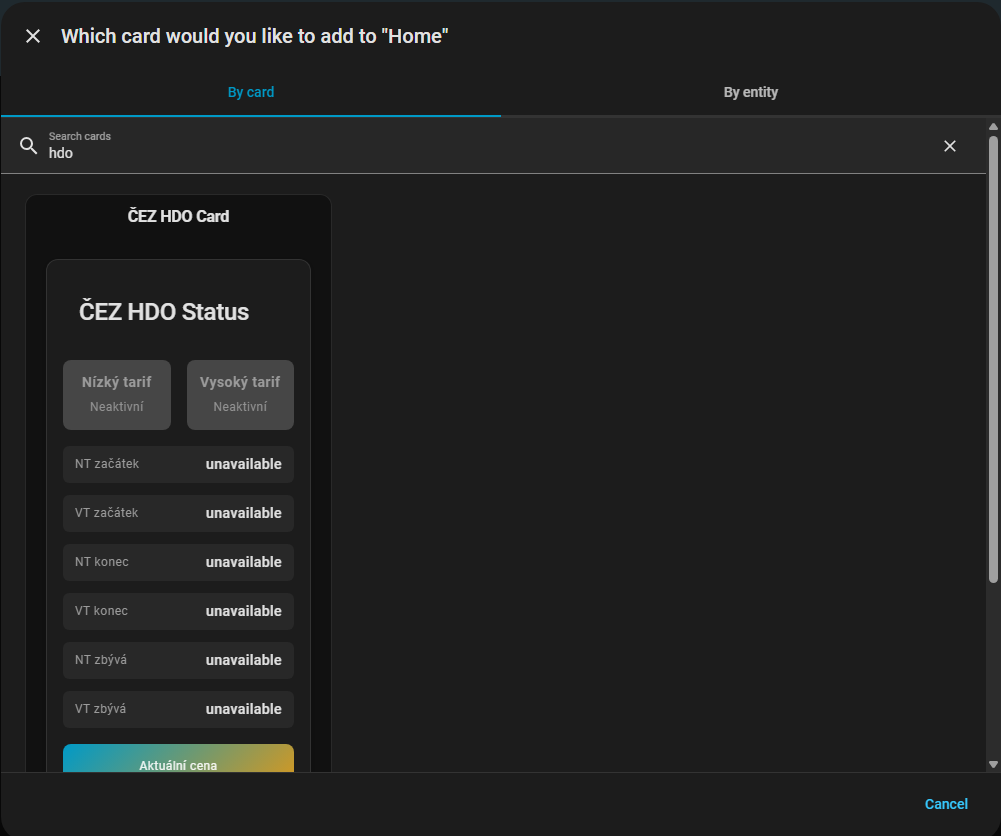
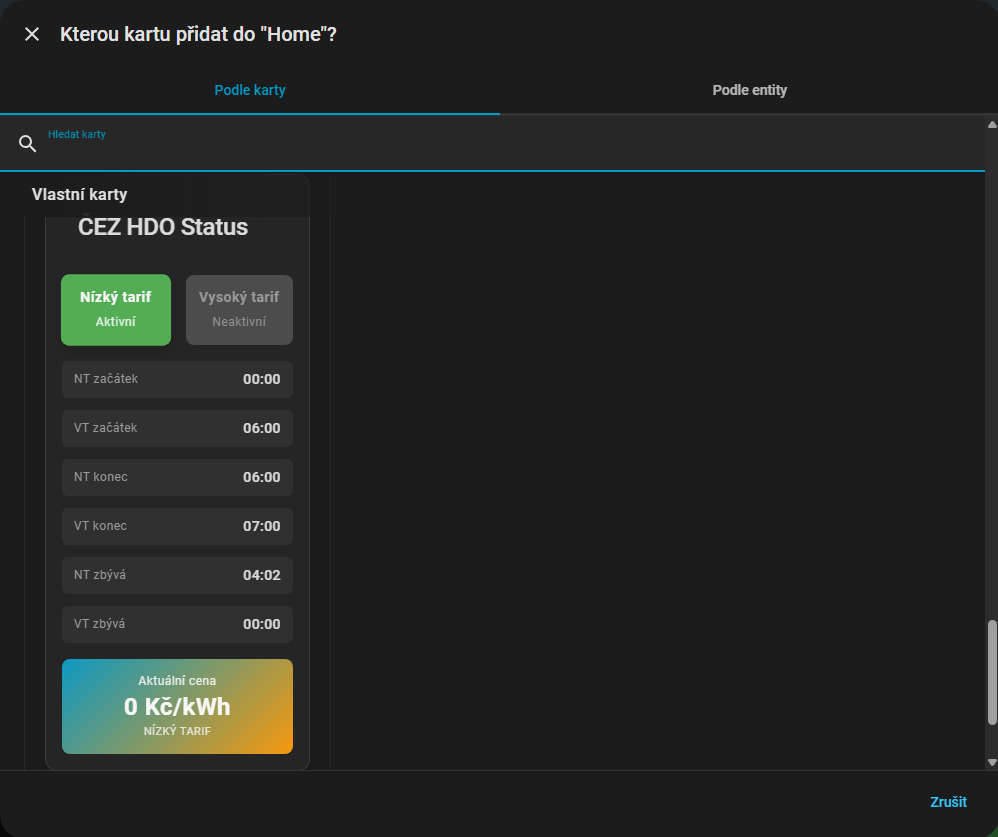
Bump version to 3.0.0-RC.3 in manifest.json
Fix formatting in sensor.py

Update user guide in Czech and English for installation steps

Update images for integration, including new debug and entity card images

diff --git a/custom_components/cez_hdo/binary_sensor.py b/custom_components/cez_hdo/binary_sensor.py
@@ -177,7 +177,7 @@ class CezHdoBinarySensor(CoordinatorEntity[CezHdoCoordinator], BinarySensorEntit
             else:
                 self._object_id = f"{base_object_id}_{ean4}" if ean4 else base_object_id
         self.entity_id = f"binary_sensor.{self._object_id}"
-        
+
         # Use translation_key for localized entity names
         # When has_entity_name=True and translation_key is set,
         # HA looks up name in translations/xx.json under entity.binary_sensor.{translation_key}.name

diff --git a/custom_components/cez_hdo/sensor.py b/custom_components/cez_hdo/sensor.py
@@ -220,7 +220,7 @@ class CezHdoSensor(CoordinatorEntity[CezHdoCoordinator], SensorEntity):
             else:
                 self._object_id = f"{base_object_id}_{ean4}" if ean4 else base_object_id
         self.entity_id = f"sensor.{self._object_id}"
-        
+
         # Use translation_key for localized entity names
         # When has_entity_name=True and translation_key is set,
         # HA looks up name in translations/xx.json under entity.sensor.{translation_key}.name

diff --git a/RELEASE_NOTES.md b/RELEASE_NOTES.md
@@ -2,6 +2,33 @@
 
 ---
 
+## v3.0.0-RC.3 (2026-02-01)
+
+### 🐛 Opravy
+
+- **Lovelace karta** – opraveny výchozí entity ID v `DEFAULT_ENTITIES`
+  (odstraněny staré české názvy jako `cez_hdo_nizky_tarif_aktivni`)
+- **Entity discovery** – karta nyní správně detekuje entity
+  podle anglických prefixů (`cez_hdo_lowtariffactive_*`)
+
+### ✨ Vylepšení
+
+- **Lokalizace názvů entit** – přidána podpora `translation_key`
+  pro automatický překlad friendly_name entit podle systémového jazyka HA
+- **Dvojjazyčná dokumentace** – kompletní CS a EN verze všech dokumentů:
+  - `docs/cs/` – česká dokumentace
+  - `docs/en/` – anglická dokumentace
+- **README_EN.md** – přidána anglická verze hlavního README
+- **Obrázky** – reorganizovány do `img/cs/` a `img/en/`
+
+### 📝 Dokumentace
+
+- Opraveny odkazy na obrázky v README_EN.md
+- Aktualizována konfigurace markdownlint
+- Opraveno číslování seznamů v user-guide
+
+---
+
 ## v3.0.0-RC.2 (2026-01-30)
 
 ### 🚀 Hlavní změny

diff --git a/docs/cs/user-guide.md b/docs/cs/user-guide.md
@@ -29,8 +29,8 @@ Kompletní návod pro instalaci, konfiguraci a používání integrace ČEZ HDO 
 
 [![HACS Repository Badge](https://my.home-assistant.io/badges/hacs_repository.svg)](https://my.home-assistant.io/redirect/hacs_repository/?category=Integration&owner=Cmajda&repository=ha_cez_distribuce)
 
-4. Nainstalujte integraci **ČEZ HDO**
-5. **Restartujte Home Assistant**
+1. Nainstalujte integraci **ČEZ HDO**
+2. **Restartujte Home Assistant**
 
 ### Po instalaci
 
@@ -54,14 +54,13 @@ Od verze 3.0.0 se integrace konfiguruje výhradně přes grafické rozhraní (GU
 
 ### Krok 1: Zadání EAN
 
-Zadejte vaše **EAN číslo** (18 číslic) a klikněte na **Odeslat**.  
+Zadejte vaše **EAN číslo** (18 číslic) a klikněte na **Odeslat**.
 EAN najdete:
 
 - Na faktuře / vyúčtování za elektřinu
 - V portálu vašeho dodavatele elektřiny
 
 ![Přidání integrace](../../img/cs/card_add_integration_1_cz.png)
-
 
 ### Krok 2: Výběr signálu
 

diff --git a/docs/en/user-guide.md b/docs/en/user-guide.md
@@ -29,8 +29,8 @@ Complete guide for installation, configuration, and usage of the ČEZ HDO integr
 
 [![HACS Repository Badge](https://my.home-assistant.io/badges/hacs_repository.svg)](https://my.home-assistant.io/redirect/hacs_repository/?category=Integration&owner=Cmajda&repository=ha_cez_distribuce)
 
-4. Install the **ČEZ HDO** integration
-5. **Restart Home Assistant**
+1. Install the **ČEZ HDO** integration
+2. **Restart Home Assistant**
 
 ### After Installation
 

diff --git a/README_EN.md b/README_EN.md
@@ -55,7 +55,7 @@ The card has a visual editor with display options:
 - Current price
 - 7-day HDO schedule
 
-![ČEZ HDO card](img/cs/entity_card_cz.png) ![HDO schedule](img/cs/graph_cz.png)
+![ČEZ HDO card](img/en/entity_card.png) ![HDO schedule](img/en/graph.png)
 
 ### Price Settings
 
